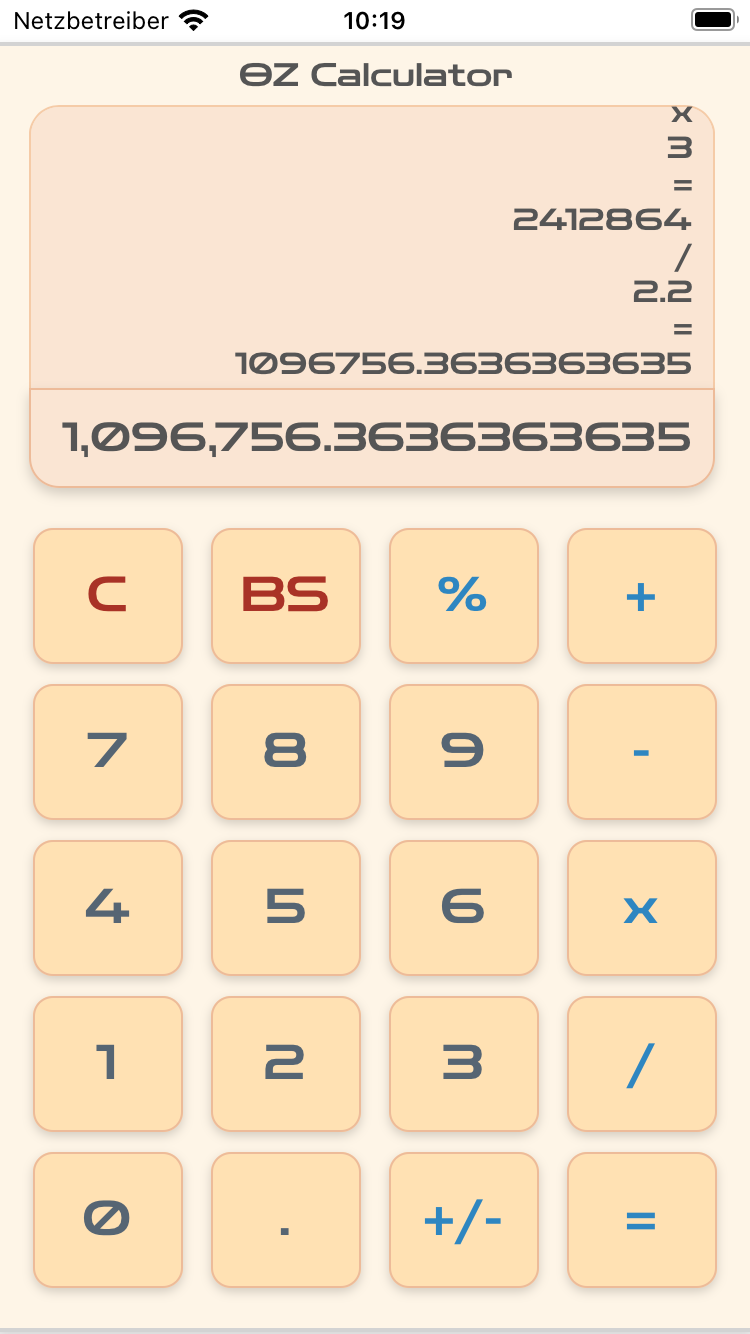
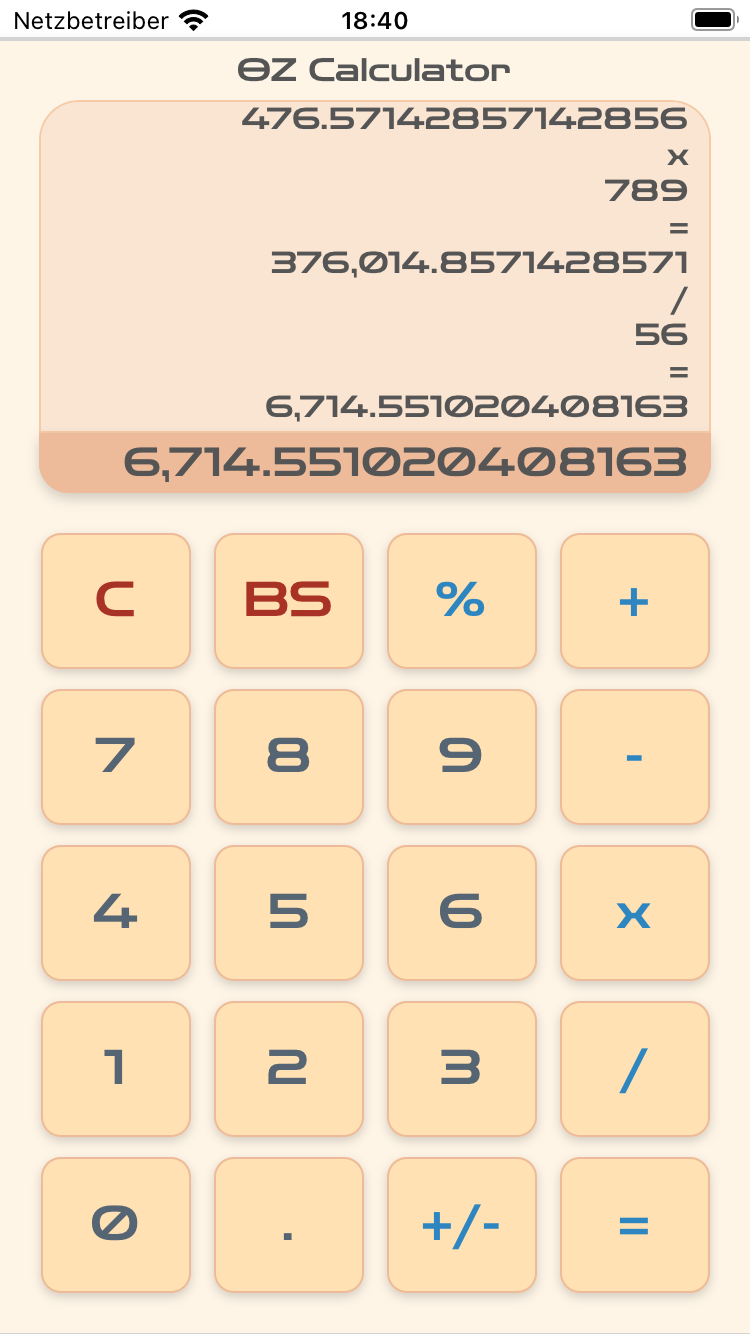
Init

diff --git a/App.jsx b/App.jsx
@@ -3,9 +3,11 @@ import { SafeAreaView, StyleSheet } from 'react-native';
 import Button from './components/Button';
 import ButtonsWrapper from './components/ButtonsWrapper';
 import CalculationsList from './components/CalculationsList';
+import CalculatorDisplay from './components/CalculatorDisplay';
 import CalculatorTitle from './components/CalculatorTitle';
 import CalculatorUIWrapper from './components/CalculatorUIWrapper';
-import CalculatorDisplay from './components/CalculatorDisplay';
+import { commaSeparateNumber } from './utils/numbersFormatter';
+
 
 function App() {
   const [inputField, setInputField] = useState([]);
@@ -63,10 +65,13 @@ function App() {
           setAccumulator(0);
           return [];
         });
-        return '';
+        return ''; 
       });
       setCalculationsListData([...calculationsListData, '---------------']);
-      return;
+      return; // If we do not return from here, then the accumulator and input field states does not have time to reset, 
+      // since they works asynchronously. As a result, new digits will be entered in addition to the current value 
+      // in the input field and in the accumulator.
+      // This problem can be solved by using a class component to be able to change values synchronously.
     }
 
     if (value === '.' && !inputField.includes('.')) {
@@ -96,7 +101,7 @@ function App() {
     if (operation === '=') {
       setCalculationsListData([...calculationsListData, value]);
     } else {
-      setCalculationsListData([...calculationsListData, inputField.join(''), value]);
+      setCalculationsListData([...calculationsListData, commaSeparateNumber(+inputField.join('')), value]);
     }
     if (operation === '') {
       setAccumulator(+inputField.join(''));
@@ -119,7 +124,11 @@ function App() {
       setOperation('=');
       setAccumulator(prevValue => {
         setInputField(() => {
-          setCalculationsListData([...calculationsListData, inputField.join(''), value, prevValue]);
+          if(accumulator !== +inputField.join('')) {
+            setCalculationsListData([...calculationsListData, commaSeparateNumber(+inputField.join('')), value, commaSeparateNumber(prevValue)]);
+          } else {
+            setCalculationsListData([...calculationsListData, value, commaSeparateNumber(prevValue)]);
+          }
           return String(prevValue).split('');
         });
         return prevValue;
@@ -128,7 +137,7 @@ function App() {
       if (operation === '=') {
         setCalculationsListData([...calculationsListData, value]);
       } else {
-        setCalculationsListData([...calculationsListData, inputField.join(''), value]);
+        setCalculationsListData([...calculationsListData, commaSeparateNumber(+inputField.join('')), value]);
       }
     }
   };

diff --git a/components/CalculatorDisplay.jsx b/components/CalculatorDisplay.jsx
@@ -16,20 +16,20 @@ export default CalculatorDisplay;
 
 const styles = StyleSheet.create({
   displayWrapper: {
-    margin: 'auto',
     flexDirection: 'row',
     alignItems: 'center',
-    backgroundColor: '#FAE5D3',
+    backgroundColor: '#EDBB99',
     borderColor: '#EDBB99',
     borderWidth: 1,
-    height: 15,
+    height: 30,
     justifyContent: 'flex-end',
     paddingRight: 10,
     paddingLeft: 10,
     borderBottomRightRadius: 15,
     borderBottomLeftRadius: 15,
-    marginLeft: 15,
-    marginRight: 20,
+    marginBottom: 15,
+    marginLeft: 5,
+    marginRight: 5,
 
     shadowColor: '#000000',
     shadowOffset: {
@@ -38,12 +38,12 @@ const styles = StyleSheet.create({
     },
     shadowOpacity: 0.17,
     shadowRadius: 3.05,
-    elevation: 4
+    elevation: 4,
   },
   displayText: {
-    fontSize: 20,
+    fontSize: 19,
     fontWeight: 'bold',
     fontFamily: 'ZenDots-Regular',
-    color: '#555'
+    color: '#555',
   }
 });

diff --git a/components/CalculatorUIWrapper.jsx b/components/CalculatorUIWrapper.jsx
@@ -10,12 +10,14 @@ export default CalculatorUIWrapper;
 const styles = StyleSheet.create({
   calculatorUIWrapper: {
     flexDirection: 'column',
-    flexWrap: 'wrap',
-    height: 645,
+    height: 650,
     width: 380,
     borderColor: 'lightgray',
     borderWidth: 2,
     backgroundColor: '#FEF5E7',
+    paddingLeft: 15,
+    paddingRight: 15,
+    paddingBottom: 15,
 
     shadowColor: '#000000',
     shadowOffset: {

diff --git a/components/CalculationsList.jsx b/components/CalculationsList.jsx
@@ -29,11 +29,10 @@ const styles = StyleSheet.create({
     backgroundColor: '#FAE5D3',
     borderColor: '#F5CBA7',
     borderWidth: 1,
-    marginLeft: 15,
-    marginRight: 20,
-    marginBottom: 17,
-    borderTopLeftRadius: 15,
-    borderTopRightRadius: 15,
+    marginLeft: 5,
+    marginRight: 5,
+    borderTopLeftRadius: 20,
+    borderTopRightRadius: 20,
 
     shadowColor: '#000000',
     shadowOffset: {

diff --git a/components/ButtonsWrapper.jsx b/components/ButtonsWrapper.jsx
@@ -13,12 +13,11 @@ export default ButtonsWrapper;
 
 const styles = StyleSheet.create({
   buttonsWrapper: {
-    height: 415,
-    marginTop: 40,
+    height: 390,
     flexDirection: 'row',
     flexWrap: 'wrap',
     justifyContent: 'space-around',
-    padding: 10,
-    paddingBottom: 20,
+    padding: 0,
+    paddingBottom: 0,
   }
 });
